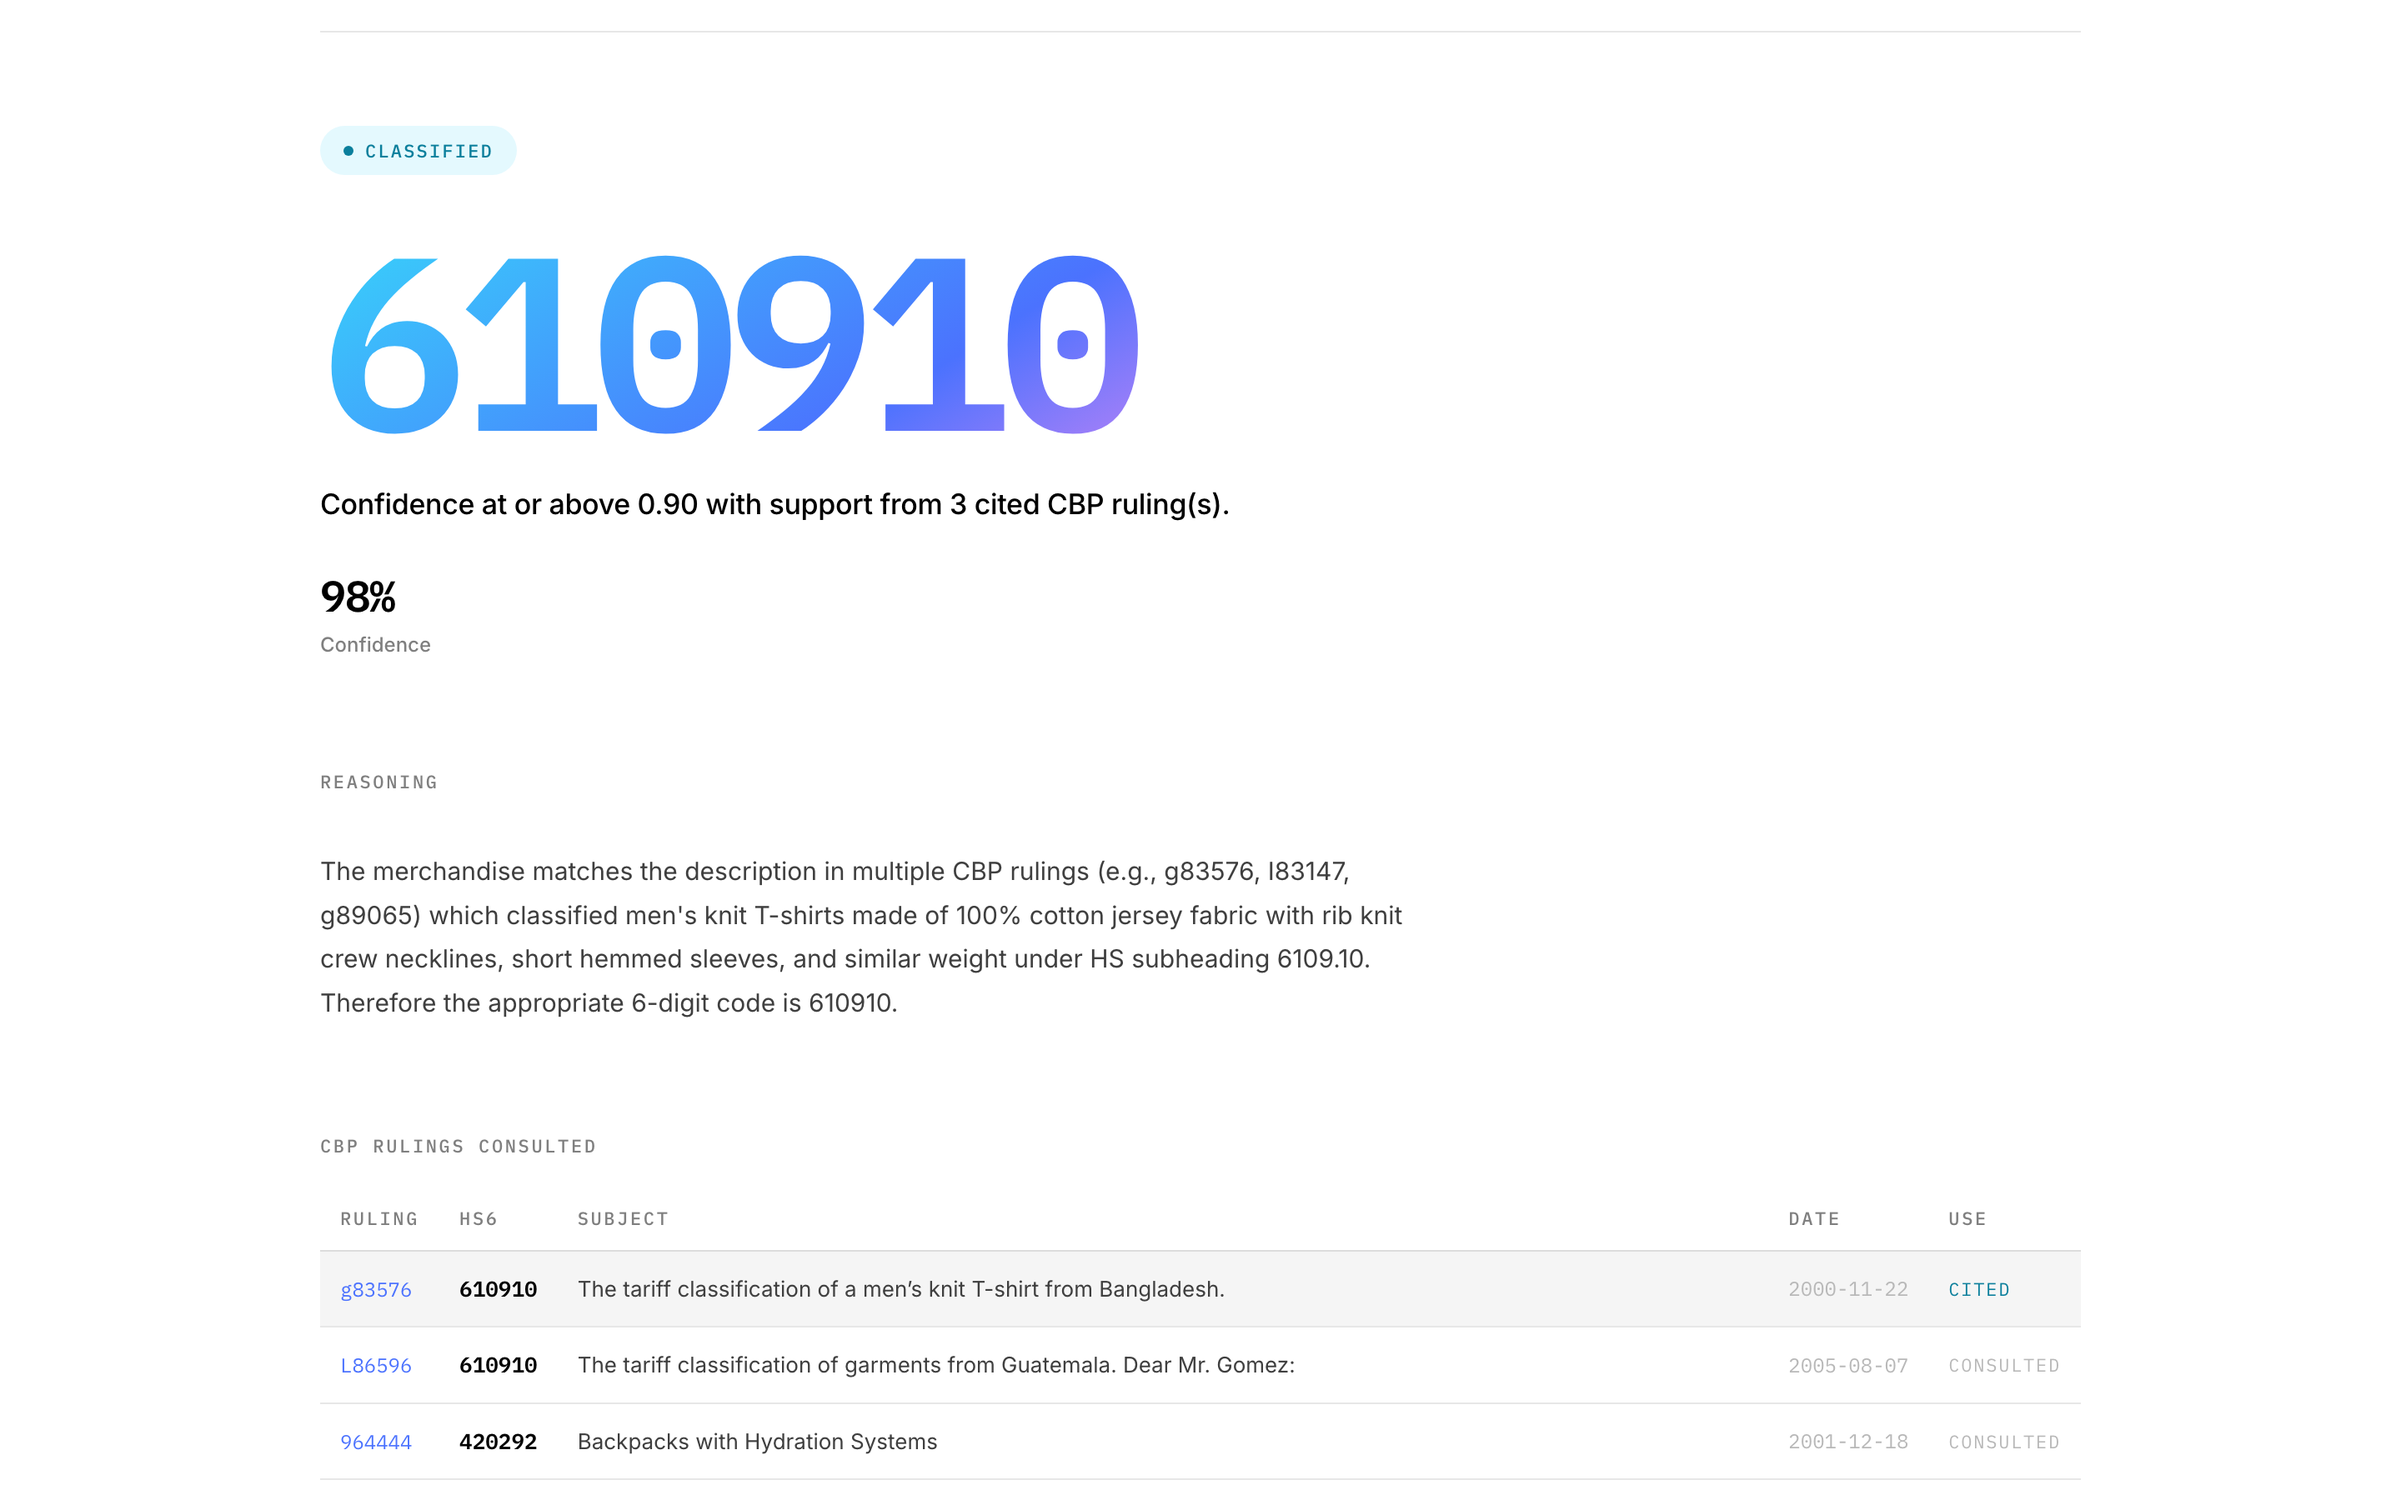
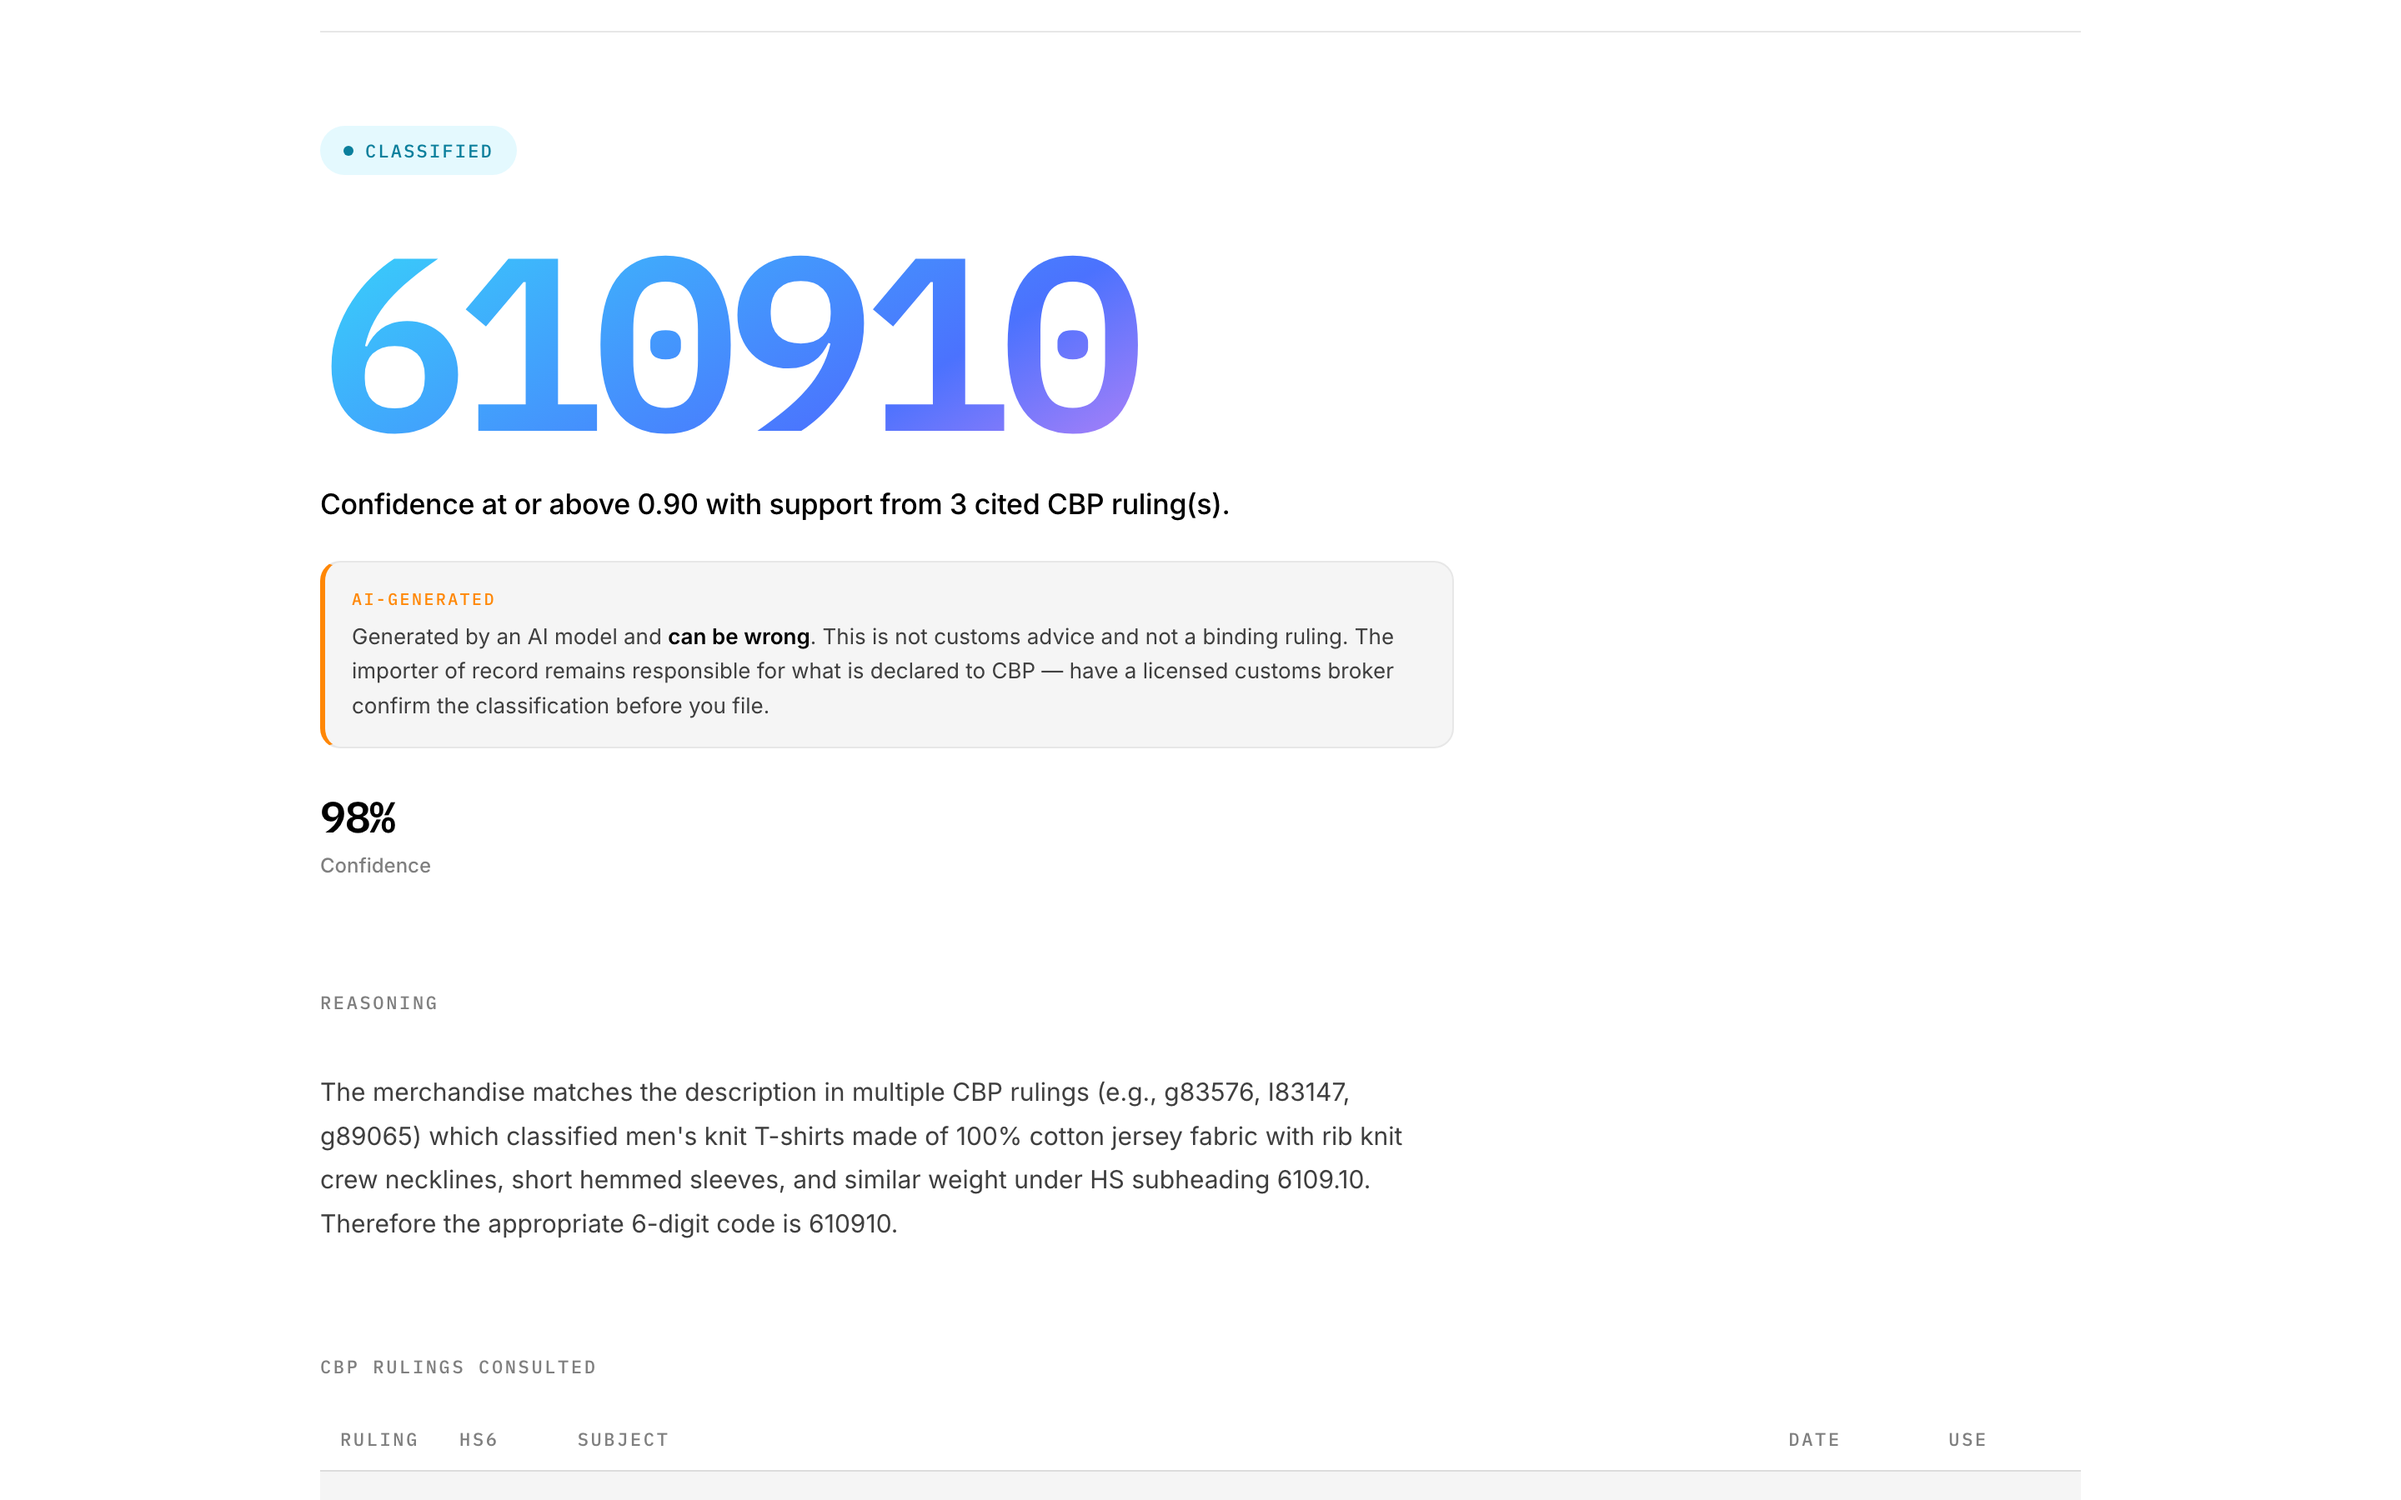
Put an AI disclaimer against every code the tool returns
Sits directly under the subheading on both verdicts rather than in the footer:
a disclaimer nobody scrolls to is one nobody read. States that the answer is
model-generated and can be wrong, that it is neither customs advice nor a
binding ruling, and that the importer of record carries the liability.

Claude-Session: https://claude.ai/code/session_01Sj3eMJcpbxWtxzbhde9dB9

diff --git a/static/style.css b/static/style.css
@@ -165,6 +165,14 @@ table.rulings .tag { white-space:nowrap; font-family:var(--font-mono); font-size
   letter-spacing:.08em; text-transform:uppercase; color:var(--ink-4); }
 table.rulings tr.cited .tag { color:var(--yes-ink); }
 
+/* The disclaimer sits with the code, not in the footer. */
+.disclaimer { max-width:680px; margin:20px 0 0; padding:14px 16px; font-size:13px; line-height:1.6;
+  color:var(--ink-2); background:var(--bg-alt); border:1px solid var(--line);
+  border-left:3px solid var(--orange); border-radius:var(--r-md); }
+.disclaimer span { display:block; margin-bottom:4px; font-family:var(--font-mono); font-size:10px;
+  font-weight:500; letter-spacing:.12em; text-transform:uppercase; color:var(--orange); }
+.disclaimer strong { color:var(--ink); font-weight:600; }
+
 /* Sections */
 section.band { padding:80px 0; border-top:1px solid var(--line); }
 .band > .wrap > h2 { margin:0 0 36px; }

diff --git a/app.py b/app.py
@@ -28,6 +28,13 @@ CROSS_URL = "https://rulings.cbp.gov/ruling/"
 # site tells Google that 23,929 pages are really one page on localhost.
 BASE_URL = os.getenv("BASE_URL", "http://localhost:8099").rstrip("/")
 RELATED_RULINGS = 6
+# Shown against every code the tool produces, answered or withheld. Adjacent to the number rather
+# than in the footer: a disclaimer nobody scrolls to is one nobody read.
+DISCLAIMER = (
+    "Generated by an AI model and <strong>can be wrong</strong>. This is not customs advice and not a "
+    "binding ruling. The importer of record remains responsible for what is declared to CBP — have a "
+    "licensed customs broker confirm the classification before you file."
+)
 MINIMUM_QUERY_CHARACTERS = 12
 MAXIMUM_QUERY_CHARACTERS = 4000
 # Embedded Qdrant by default so a checkout runs with nothing installed; point QDRANT_URL at a
@@ -190,6 +197,7 @@ def render_result(result: Classification) -> str:
     rows = render_rulings(result.candidates, set(result.citations))
     return f"""<section class="result">
       {headline}
+      <p class="disclaimer"><span>AI-generated</span>{DISCLAIMER}</p>
       <p class="confidence">{result.confidence:.0%}<span>Confidence</span></p>
       <h2>Reasoning</h2>
       <p class="reasoning">{html.escape(result.reasoning)}</p>

diff --git a/test_hs.py b/test_hs.py
@@ -330,3 +330,16 @@ def test_a_malformed_subheading_never_reaches_the_result():
     for written, expected in (("0901.21.0000", "090121"), ("6109.10", "610910"), ("0901 21 0000", "090121")):
         assert classify.Classification(hs6=written, reasoning="", citations=[], confidence=0.5,
                                        disposition="escalated", reason="", candidates=[]).hs6 == expected
+
+
+def test_every_result_carries_the_ai_disclaimer():
+    """A code must never be shown without it, on either verdict."""
+    import app
+
+    app.state["indexed"] = 176940
+    for result in (classify.gate(make_result()), classify.gate(make_result(confidence=0.42))):
+        page = app.render_page("cotton t-shirt", app.render_result(result))
+        assert 'class="disclaimer"' in page
+        assert "can be wrong" in page and "not customs advice" in page
+        assert "licensed customs broker" in page
+    app.state.clear()
